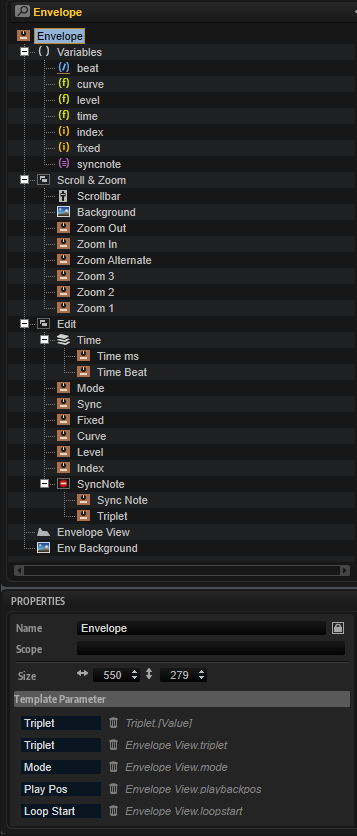
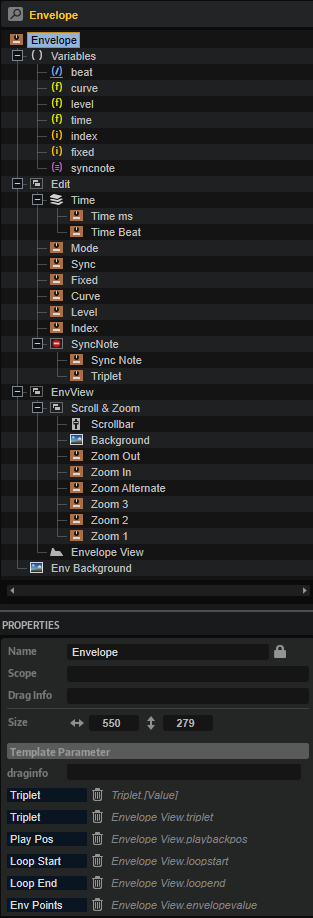
Add Animation Script and Envelope Shaper, revised Envelope to match H7

Changed region(s): [[0.0, 0.0, 1.0, 0.9952]]

diff --git a/src/HALion-Macro-Page/pages/Envelope-Shaper.md b/src/HALion-Macro-Page/pages/Envelope-Shaper.md
@@ -1,3 +1,140 @@
 / [HALion Developer Resource](../../HALion-Developer-Resource.md) / [HALion Macro Page](./HALion-Macro-Page.md) / [Templates](./Templates.md) /
 
 # Envelope Shaper
+
+---
+
+**On this page:**
+
+[[_TOC_]]
+
+---
+
+## Description
+
+The Envelope Shaper template allows you to edit HALion's multi-stage envelopes. The template contains controls for scrolling and zooming the envelope and for setting the envelope mode or the values of the selected node, for example. In addition, it offers tools for drawing shapes. The controls must be part of the template and they must use the [UI variables](#ui-variables) as defined in the template to connect with the [Envelope View Control](#envelope-view-control).
+
+>&#10069; The [Envelope View Control](#envelope-view-control) cannot be created manually in the GUI Tree. {{#include ./_Templates.md:special-template}}
+
+**To explore the functionality and connections:**
+
+1. Load the [Init Basic Controls.vstpreset](../vstpresets/Init%20Basic%20Controls.vstpreset) from the [Basic Controls](./Exploring-Templates.md#basic-controls) library.
+2. Open the **Macro Page Designer**, go to the **GUI Tree** and navigate to "Pages > Envelope Shaper Page". 
+3. Select "Envelope ShaperMode" and click **Edit Element** ![Edit Element](../images/EditElement.PNG) to examine the template.
+
+## Template Properties
+
+|Poperty|Description|
+|:-|:-|
+{{#include ./_Properties.md:name}}
+{{#include ./_Properties.md:position-size}}
+{{#include ./_Properties.md:attach}}
+{{#include ./_Properties.md:tooltip}}
+{{#include ./_Properties.md:template}}
+
+## Template Parameters
+
+|Parameter|Description|
+|:-|:-|
+|**Mode**|Connect this to the Mode parameter of the envelope.|
+|**Play Pos**|Connect this to the PlaybackPos parameter of the envelope.|
+|**Loop Start**|Connect this to the LoopStart parameter of the envelope.|
+|**Loop End**|Connect this to the LoopEnd parameter of the envelope.|
+|**Env Points**|Connect this to the Envelope Points parameter of the envelope.|
+|**Sync**|Connect this to the Sync parameter of the envelope.|
+|**Sustain**|Connect this to the SustainIndex parameter of the envelope.|
+
+## Components inside the Template
+
+![Envelope Shaper Template](../images/Envelope-Shaper-Template.PNG)
+
+### UI Variables
+
+These variables are needed to allow the communication between the Envelope View and other controls in the template.
+
+|Variable|Description|Type|Range|
+|:-|:-|:-|:-:|
+|**beat**|Time in beats.|rational|n.a.|
+|**curve**|Curvature of the selected node segment.|float|-10 - 10|
+|**level**|Level of the selected node.|float|0 - 100|
+|**time**|Time of the selected note.|float|0 - 30000|
+|**index**|Index of the selected node.|integer|0 - 128|
+|**tool**|The tool for drawing shapes.|integer|0 - 3|
+|**shapesave**|Used for saving shapes.|integer|0 - 1|
+|**shapeselect**|Used for selecting shapes.|integer|0 - 1|
+|**fixed**|Fixed mode of the envelope.|integer| 0, 1|
+|**Grid**|Specifies the note grid.|stringlist|1/64, 1/32, 1/16T, 1/16, 1/8T, 1/16D, 1/8, 1/4T, 1/8D, 1/4, 1/2T, 1/4D, 1/2, 1/1T, 1/2D, 4/4, 5/4, 6/4, 7/4, 8/4, 16/4, 32/4, 64/4|
+
+### Controls and Subtemplates
+
+|Item|Description|
+|:-|:-|
+|**Edit**|This [Group](./Group.md) contains controls that allow you to adjust the selected node and further options of the envelope.<ul><li>**Mode:** A menu template. Its Value is exported by ``@../{Mode}``. It should be connected to the Mode parameter of the corresponding envelope in the zone.</li><li>**Toolbar:** This [Group](./Group.md) contains switches for selecting the Edit, Erase, Draw, or Paint tool of the envelope.<ul><li>**Edit_1/Erase/Draw/Paint:** All switches use the exclusive mode and must be connected to ``@tool``.</li><li>**ToolBarBack:** A [Decor](./Decor-Resource.md) used as background.</li></ul></li><li>**Shape:** A [Group] of controls that allow to select and save the shapes for the Draw and Paint tools.<ul><li>**SaveShape:** A [Disable](./Disable.md) group for the save button. Its Value must be set to ``@tool``, so that saving is only possibe if the Edit tool is active.</li><ul><li>**SaveShape_1:** A [Switch](./Switch.md) for saving a shape. Its Value must be set to ``@shapesave``.</li></ul><li>**SelectShape:** A [Switch](./Switch.md) for opening the shape selector. Its Value must be set to ``@shapeselect``.</li><li>**Shape Preview:** A [Curve Editor](./Curve-Editor.md) for displaying the selected shape. Its Value must be set to ``@shape``.</li><li>**ToolBarBack_1:** A [Decor](./Decor-Resource.md) used as background.</li></ul><li>**Sync:** A switch template. Its Value is exported as ``Sync`` and should be connected to the Sync parameter of the corresponding envelope in the zone.</li><li>**SyncNote:** A [Disable](./Disable.md) view with a Sync Note template. The Value of the [Disable](./Disable.md) view is exported as ``Sync`` and should be connected to the Sync parameter of the corresponding envelope in the zone. If Sync is active, the [Disable](./Disable.md) view becomes active too and the contained template can be used to set Sync Note.</li><ul><li>**Sync Note:** A menu template. Its Value must be set to ``@Grid``, a stringlist [UI variable](#ui-variables) that defines the allowed note values. It is also connected to the corresponding property of the Envelope View, which uses the same [UI variable](#ui-variables).</li></ul><li>**Fixed:** A switch template. Its Value is connected to the corresponding property of the Envelope View by the [UI variable](#ui-variables) ``@fixed``.</li><li>**Node:** This [Group](./Group.md) contains controls for adjusting the selected node.</li><ul><li>**Index:** A valuebox template to select the index of the node to be edited. Its Value is connected to the corresponding property of the Envelope View by the [UI variable](#ui-variables) ``@index``.</li><li>**Level:** A valuebox template to adjust the level of the selected node. Its Value is connected to the corresponding property of the Envelope View by the [UI variable](#ui-variables) ``@level``.</li><li>**Time:** A [Stack](./Stack.md) with two templates to either set the time of a node in ms or fractions of a beat. The Value of the [Stack](./Stack.md) is exported as ``Sync`` and should be connected to the Sync parameter of the corresponding envelope in the zone.<ul><li>**Time ms/Time Beat:** The Value of the "Time ms" and the "Time Beat" templates must be set to the [UI variables](#ui-variables) ``@time`` and ``@beat`` respectively. This way, they are connected to the corresponding properties of the Envelope View, which use the same [UI variables](#ui-variables).</li></ul></li><li>**Curve:** A valuebox template to adjust the curvature of the selected node. Its Value is connected to the corresponding property of the Envelope View by the [UI variable](#ui-variables) ``@curve``.</li></ul><li>**EnableShaperMode:** A special invisible [Animation](./Animation.md) control which is only used to transfer the information about the selected envelope mode into the template. Its Value is exported using ``{Mode}``.</li></ul>|
+|**EnvView**|This [Group](./Group.md) contains a group with controls for scrolling and zooming the envelope and the Envelope View. See [Envelope View Control](#envelope-view-control) for further details.<ul><li>**Scroll & Zoom:** This [Group](./Group.md) contains controls that allow you to scroll and zoom the envelope.<ul><li>**Scrollbar:** A [Range Slider](./Range-Slider.md) to reach areas of the envelope that are not visible through the zoom. The Low Value of the [Range Slider](./Range-Slider.md) must be set to ``@ScrollMin`` and the High Value must be set to ``@ScrollMax``.</li><li>**Background:** A background bitmap for the scrollbar.</li><li>**Zoom Out:** A switch template that allows you to zoom out the envelope. Its Value must be set to ``@ZoomOut``.</li><li>**Zoom In:** A switch template that allows you to zoom in the envelope. Its Value must be set to ``@ZoomIn``.</li><li>**Zoom Alternate:** A switch template that toggles between the last zoom state or completely zoomed out. Its Value must be set to ``@StateA.``</li><li>**Zoom1:** A switch template to activate zoom state 1. Its Value must be set to ``@State1``.</li><li>**Zoom2:** A switch template to activate zoom state 2. Its Value must be set to ``@State2``.</li><li>**Zoom3:** A switch template to activate zoom state 3. Its Value must be set to ``@State3``.</li></ul></li><li>**Envelope View:** The graphical envelope editor. The properties EnvValue, Mode, Sync, Triplet, Loop Start, Loop End, Sustain and Play Pos are exported and thus are available as template parameters. They should be connected to the parameters of the corresponding envelope in the zone. The Value of the properties SyncNote, Fixed, Index, Level, Time, Beat and Curve is set to the corresponding [UI variable](#ui-variables). This way, each property is connected to one of the control templates mentioned above. See [Envelope View Control](#envelope-view-control) for further details.</li></ul>|
+|**Env Background**|The background bitmap for the envelope.|
+
+### Envelope View Control
+
+#### Properties
+
+In addition to standard properties like size, position, etc., the Envelope View provides further properties and colors to customize its appearance and behavior.
+
+|Poperty|Description|
+|:-|:-|
+{{#include ./_Properties.md:name}}
+{{#include ./_Properties.md:position-size}}
+{{#include ./_Properties.md:attach}}
+{{#include ./_Properties.md:tooltip}}
+|**Style**|<ul><li>**Bipolar:** Activate this for bipolar envelopes like pitch or pan.</li><li>**Scrollbar:** If this is active, the view can be scrolled and zoomed.</li><li>**Cross:** Shows crosslines when editing nodes.</li><li>**Grid:** Shows a time grid.</li><li>**Play Pos:** Shows the current playback position on the curve.</li><li>**Nodes:** Shows nodes.</li><li>**Add/Rem:** Allows adding and removing of nodes. Deactivate this option to provide an ADSR envelope with a fixed number of nodes, for example.</li><li>**Sel Node:** Allows you to select a node.</li><li>**Sustain:** Shows a sustain line. For this, an envelope Mode with sustain must be active.</li><li>**Loop:** Shows an overlay for the loop region. For this, the envelope Mode must be set to Loop.</li><li>**Free End:** Allows you to move the last node of a unipolar envelope away from the zero line.</li></ul>|
+|**Env Value**|Exported as ``Env Points``. See [Template Parameters](#template-parameters) above.|
+|**Mode**|Exported as ``Mode`` See [Template Parameters](#template-parameters) above.|
+|**Sync**|Exported as ``Sync`` See [Template Parameters](#template-parameters) above.|
+|**Triplet**|Not used in this template. See [Envelope](./Envelope.md) template for details of this property.|
+|**SyncNote**|Connected to the corresponding control template by the [UI variable](#ui-variables) ``@Grid``.|
+|**Fixed**|Connected to the corresponding control template by the [UI variable](#ui-variables) ``@fixed``.|
+|**Tool**|Connected to the corresponding controls Edit_1, Erase, Draw, and Paint by the [UI variable](#ui-variables) ``@tool``.|
+|**ShapeSave**|Connected to the corresponding control SaveShape_1 by the [UI variable](#ui-variables) ``@shapesave``.|
+|**ShapeSelect**|Connected to the corresponding control SelectShape by the [UI variable](#ui-variables) ``@shapeselect``|
+|**Shape**|Connected to the corresponding control Shape Preview by the [UI variable](#ui-variables) ``@shape``.|
+|**Index**|Connected to the corresponding control template by the [UI variable](#ui-variables) ``@index``.|
+|**Level**|Connected to the corresponding control template by the [UI variable](#ui-variables) ``@level``.|
+|**Time**|Connected to the corresponding control template by the [UI variable](#ui-variables) ``@time``.|
+|**Beat**|Connected to the corresponding control template by the [UI variable](#ui-variables) ``@beat``.|
+|**Curve**|Connected to the corresponding control template by the [UI variable](#ui-variables) ``@curve``.|
+|**Loop Start**|Exported as ``Loop Start``. See [Template Parameters](#template-parameters) above.|
+|**Loop End**|Exported as ``Loop End``. See [Template Parameters](#template-parameters) above.|
+|**Sustain**|Exported as ``Sustain``. See [Template Parameters](#template-parameters) above.|
+**Play Pos**|Exported as ``Play Pos``. See [Template Parameters](#template-parameters) above.|
+|**Min X**|Defines the minimum value of the horizontal zoom.|
+|**Max X**|Defines the maximum value of the horizontal zoom.|
+|**Min Y**|Defines the minimum value of the vertical zoom.|
+|**Max Y**|Defines the maximum value of the vertical zoom.|
+
+#### Colors
+
+>&#10069; Some colors are only available if the corresponding Style options are active.
+
+|Poperty|Description|
+|:-|:-|
+|**Line**|Line color between the nodes.|
+|**Fill**|Fill color of the nodes.|
+|**FillSelected**|Fill color of the selected nodes.|
+|**FrameFocus**|Frame color of the focussed node.|
+|**Frame**|Frame color of the nodes.|
+|**Hover**|Hover frame color of the nodes.|
+|**Sustain**|Color of the Sustain node and line.|
+|**Synced**|Dot color of nodes that are aligned to the sync grid.|
+|**Crosshair**|Node edit crosshair color.|
+|**Playback**|Color of the playback position indicator.|
+|**Border**|Overall border color.|
+|**Grid V**|Vertical grid color.|
+|**Grid V2**|Vertical fine grid color.|
+|**Grid H**|Horizontal grid color.|
+|**Grid H2**|Horizontal fine grid color.|
+|**Font**|Timeline font color.|
+|**Selector**|Selection area fill color.|
+|**SelFrame**|Selection area frame color.|
+|**Loop**|Loop area fill color.|
+|**LoopFrame**|Loop area frame color.|
+|**Zoom**|Zoom area fill color.|
+|**ZoomFrame**|Zoom area frame color.|

diff --git a/src/HALion-Macro-Page/pages/Envelope.md b/src/HALion-Macro-Page/pages/Envelope.md
@@ -50,20 +50,20 @@ These variables are needed to allow the communication between the Envelope View 
 
 |Variable|Description|Type|Range|
 |:-|:-|:-|:-:|
-|**index**|Index of the selected node.|integer|0 - 128|
+|**beat**|Time in beats.|rational|n.a.|
+|**curve**|Curvature of the selected node segment.|float|-10 - 10|
 |**level**|Level of the selected node.|float|0 - 100|
 |**time**|Time of the selected note.|float|0 - 30000|
-|**curve**|Curvature of the selected node segment.|float|-10 - 10|
-|**beat**|Time in beats.|rational|n.a.|
+|**index**|Index of the selected node.|integer|0 - 128|
+|**fixed**|Fixed mode of the envelope.|integer| 0, 1|
 |**syncnote**|Specifies the note grid.|stringlist|1/1, 1/2, 1/4, 1/8, 1/16, 1/32, 1/64, 1/128, 1/256|
 
 ### Controls and Subtemplates
 
 |Item|Description|
 |:-|:-|
-|**Scroll & Zoom**|This [Group](./Group.md) contains controls that allow you to scroll and zoom the envelope.<ul><li>**Scrollbar:** A [Range Slider](./Range-Slider.md) to reach areas of the envelope that are not visible through the zoom. The Low Value of the [Range Slider](./Range-Slider.md) must be set to ``@ScrollMin`` and the High Value must be set to ``@ScrollMax``.</li><li>**Background:** A background bitmap for the scrollbar.</li><li>**Zoom Out:** A switch template that allows you to zoom out the envelope. Its Value must be set to ``@ZoomOut``.</li><li>**Zoom In:** A switch template that allows you to zoom in the envelope. Its Value must be set to ``@ZoomIn``.</li><li>**Zoom Alternate:** A switch template that toggles between the last zoom state or completely zoomed out. Its Value must be set to ``@StateA.``</li><li>**Zoom1:** A switch template to activate zoom state 1. Its Value must be set to ``@State1``.</li><li>**Zoom2:** A switch template to activate zoom state 2. Its Value must be set to ``@State2``.</li><li>**Zoom3:** A switch template to activate zoom state 3. Its Value must be set to ``@State3``.</li></ul>|
-|**Edit**|This [Group](./Group.md) contains controls that allow you to adjust the selected node and further options of the envelope.<ul><li>**Time:** A [Stack](./Stack.md) with two templates to either set the time of a node in ms or fractions of a beat. The Value of the [Stack](./Stack.md) is exported as ``Sync`` and should be connected to the Sync parameter of the corresponding envelope in the zone. The Value of the "Time ms" and the "Time Beat" templates must be set to the [UI variables](#ui-variables) ``@time`` and ``@beat`` respectively. This way, they are connected to the corresponding properties of the Envelope View, which use the same [UI variables](#ui-variables).</li><li>**Mode:** A menu template. Its Value is exported as ``Mode`` and should be connected to the Mode parameter of the corresponding envelope in the zone.</li><li>**Sync:** A switch template. Its Value is exported as ``Sync`` and should be connected to the Sync parameter of the corresponding envelope in the zone.</li><li>**Fixed:** A switch template. Its Value is connected to the corresponding property of the Envelope View by the [UI variable](#ui-variables) ``@fixed``.</li><li>**Curve:** A valuebox template to adjust the curvature of the selected node. Its Value is connected to the corresponding property of the Envelope View by the [UI variable](#ui-variables) ``@curve``.</li><li>**Level:** A valuebox template to adjust the level of the selected node. Its Value is connected to the corresponding property of the Envelope View by the [UI variable](#ui-variables) ``@level``.</li><li>**Index:** A valuebox template to select the index of the node to be edited. Its Value is connected to the corresponding property of the Envelope View by the [UI variable](#ui-variables) ``@index``.</li><li>**SyncNote:** A [Disable](./Disable.md) view with two templates: Sync Note and Triplet. The Value of the [Disable](./Disable.md) view is exported as ``Sync`` and should be connected to the Sync parameter of the corresponding envelope in the zone. If Sync is active, the [Disable](./Disable.md) view becomes active too and the contained templates can be used to set the Sync Note and Triplet parameters of the envelope.</li><ul><li>**Sync Note:** A menu template. Its Value must be set to ``@syncnote``, a stringlist [UI variable](#ui-variables) that defines the allowed note values. It is also connected to the corresponding property of the Envelope View, which uses the same [UI variable](#ui-variables).</li><li>**Triplet:** A switch template. Its Value is exported as ``Triplet`` and should be connected to the Triplet parameter of the corresponding envelope in the zone.</li></ul></ul>|
-|**Envelope View**|The graphical envelope editor. The properties EnvValue, Mode, Sync, Triplet, Loop Start, Loop End, Sustain and Play Pos are exported and thus are available as template parameters. They should be connected to the parameters of the corresponding envelope in the zone. The Value of the properties SyncNote, Fixed, Index, Level, Time, Beat and Curve is set to the corresponding [UI variable](#ui-variables). This way, each property is connected to one of the control templates mentioned above.|
+|**Edit**|This [Group](./Group.md) contains controls that allow you to draw shapes, adjust the selected node and further options of the envelope.<ul><li>**Time:** A [Stack](./Stack.md) with two templates to either set the time of a node in ms or fractions of a beat. The Value of the [Stack](./Stack.md) is exported as ``Sync`` and should be connected to the Sync parameter of the corresponding envelope in the zone.<ul><li>**Time ms/Time Beat:** The Value of the "Time ms" and the "Time Beat" templates must be set to the [UI variables](#ui-variables) ``@time`` and ``@beat`` respectively. This way, they are connected to the corresponding properties of the Envelope View, which use the same [UI variables](#ui-variables).</li></ul></li><li>**Mode:** A menu template. Its Value is exported as ``Mode`` and should be connected to the Mode parameter of the corresponding envelope in the zone.</li><li>**Sync:** A switch template. Its Value is exported as ``Sync`` and should be connected to the Sync parameter of the corresponding envelope in the zone.</li><li>**Fixed:** A switch template. Its Value is connected to the corresponding property of the Envelope View by the [UI variable](#ui-variables) ``@fixed``.</li><li>**Curve:** A valuebox template to adjust the curvature of the selected node. Its Value is connected to the corresponding property of the Envelope View by the [UI variable](#ui-variables) ``@curve``.</li><li>**Level:** A valuebox template to adjust the level of the selected node. Its Value is connected to the corresponding property of the Envelope View by the [UI variable](#ui-variables) ``@level``.</li><li>**Index:** A valuebox template to select the index of the node to be edited. Its Value is connected to the corresponding property of the Envelope View by the [UI variable](#ui-variables) ``@index``.</li><li>**SyncNote:** A [Disable](./Disable.md) view with two templates: Sync Note and Triplet. The Value of the [Disable](./Disable.md) view is exported as ``Sync`` and should be connected to the Sync parameter of the corresponding envelope in the zone. If Sync is active, the [Disable](./Disable.md) view becomes active too and the contained templates can be used to set the Sync Note and Triplet parameters of the envelope.</li><ul><li>**Sync Note:** A menu template. Its Value must be set to ``@syncnote``, a stringlist [UI variable](#ui-variables) that defines the allowed note values. It is also connected to the corresponding property of the Envelope View, which uses the same [UI variable](#ui-variables).</li><li>**Triplet:** A switch template. Its Value is exported as ``Triplet`` and should be connected to the Triplet parameter of the corresponding envelope in the zone.</li></ul></ul>|
+|**EnvView**|This [Group](./Group.md) contains a group with controls for scrolling and zooming the envelope and the Envelope View.<ul><li>**Scroll & Zoom:** This [Group](./Group.md) contains controls that allow you to scroll and zoom the envelope.<ul><li>**Scrollbar:** A [Range Slider](./Range-Slider.md) to reach areas of the envelope that are not visible through the zoom. The Low Value of the [Range Slider](./Range-Slider.md) must be set to ``@ScrollMin`` and the High Value must be set to ``@ScrollMax``.</li><li>**Background:** A background bitmap for the scrollbar.</li><li>**Zoom Out:** A switch template that allows you to zoom out the envelope. Its Value must be set to ``@ZoomOut``.</li><li>**Zoom In:** A switch template that allows you to zoom in the envelope. Its Value must be set to ``@ZoomIn``.</li><li>**Zoom Alternate:** A switch template that toggles between the last zoom state or completely zoomed out. Its Value must be set to ``@StateA.``</li><li>**Zoom1:** A switch template to activate zoom state 1. Its Value must be set to ``@State1``.</li><li>**Zoom2:** A switch template to activate zoom state 2. Its Value must be set to ``@State2``.</li><li>**Zoom3:** A switch template to activate zoom state 3. Its Value must be set to ``@State3``.</li></ul></li><li>**Envelope View:** The graphical envelope editor. The properties EnvValue, Mode, Sync, Triplet, Loop Start, Loop End, Sustain and Play Pos are exported and thus are available as template parameters. They should be connected to the parameters of the corresponding envelope in the zone. The Value of the properties SyncNote, Fixed, Index, Level, Time, Beat and Curve is set to the corresponding [UI variable](#ui-variables). This way, each property is connected to one of the control templates mentioned above. See [Envelope View Control](#envelope-view-control) for further details.</li></ul>|
 |**Env Background**|The background bitmap for the envelope.|
 
 ### Envelope View Control
@@ -85,6 +85,10 @@ In addition to standard properties like size, position, etc., the Envelope View 
 |**Triplet**|Exported as ``Triplet`` See [Template Parameters](#template-parameters) above.|
 |**SyncNote**|Connected to the corresponding control template by the [UI variable](#ui-variables) ``@syncnote``.|
 |**Fixed**|Connected to the corresponding control template by the [UI variable](#ui-variables) ``@fixed``.|
+|**Tool**|Not used in this template. See [Envelope Shaper](./Envelope-Shaper.md) template for details of this property.|
+|**ShapeSave**|Not used in this template. See [Envelope Shaper](./Envelope-Shaper.md) template for details of this property.|
+|**ShapeSelect**|Not used in this template. See [Envelope Shaper](./Envelope-Shaper.md) template for details of this property.|
+|**Shape**|Not used in this template. See [Envelope Shaper](./Envelope-Shaper.md) template for details of this property.|
 |**Index**|Connected to the corresponding control template by the [UI variable](#ui-variables) ``@index``.|
 |**Level**|Connected to the corresponding control template by the [UI variable](#ui-variables) ``@level``.|
 |**Time**|Connected to the corresponding control template by the [UI variable](#ui-variables) ``@time``.|
@@ -93,7 +97,7 @@ In addition to standard properties like size, position, etc., the Envelope View 
 |**Loop Start**|Exported as ``Loop Start``. See [Template Parameters](#template-parameters) above.|
 |**Loop End**|Exported as ``Loop End``. See [Template Parameters](#template-parameters) above.|
 |**Sustain**|Exported as ``Sustain``. See [Template Parameters](#template-parameters) above.|
-**Play Pos**|Exported as ``Play Pos``. See [Template Parameters](#template-parameters) above.|
+|**Play Pos**|Exported as ``Play Pos``. See [Template Parameters](#template-parameters) above.|
 |**Min X**|Defines the minimum value of the horizontal zoom.|
 |**Max X**|Defines the maximum value of the horizontal zoom.|
 |**Min Y**|Defines the minimum value of the vertical zoom.|
@@ -101,7 +105,7 @@ In addition to standard properties like size, position, etc., the Envelope View 
 
 #### Colors
 
->&#10069; Some colors are only available if the corresponding Style options are active.
+>&#10069; Some colors are available only if the corresponding Style options are enabled.
 
 |Poperty|Description|
 |:-|:-|
@@ -114,16 +118,17 @@ In addition to standard properties like size, position, etc., the Envelope View 
 |**Sustain**|Color of the Sustain node and line.|
 |**Synced**|Dot color of nodes that are aligned to the sync grid.|
 |**Crosshair**|Node edit crosshair color.|
-|**Playback**|Color of the playback position indicator.|
+|**Play Pos**|Color of the playback position indicator.|
 |**Border**|Overall border color.|
 |**Grid V**|Vertical grid color.|
 |**Grid V2**|Vertical fine grid color.|
+|**Grid V3**|Vertical fine grid color.|
 |**Grid H**|Horizontal grid color.|
 |**Grid H2**|Horizontal fine grid color.|
 |**Font**|Timeline font color.|
 |**Selector**|Selection area fill color.|
 |**SelFrame**|Selection area frame color.|
-|**Loop**|Loop area fill color.|
-|**LoopFrame**|Loop area frame color.|
 |**Zoom**|Zoom area fill color.|
 |**ZoomFrame**|Zoom area frame color.|
+|**Loop**|Loop area fill color.|
+|**LoopFrame**|Loop area frame color.|

diff --git a/src/HALion-Macro-Page/pages/Animation-Script.md b/src/HALion-Macro-Page/pages/Animation-Script.md
@@ -1,3 +1,77 @@
 / [HALion Developer Resource](../../HALion-Developer-Resource.md) / [HALion Macro Page](./HALion-Macro-Page.md) / [Templates](./Templates.md) /
 
 # Animation Script
+
+---
+
+**On this page:**
+
+[[_TOC_]]
+
+---
+
+## Description
+
+The Animation Script template can be added to a macro page to run timer-controlled animations. These can be turned on and off by any parameter and the integrated script can be customized to set animation properties, such as the number of frames and the duration of a frame. There are two templates included in the [Basic Controls](./Exploring-Templates.md#basic-controls) library, the Animation Script template providing only the UI script and the Animation Script Example template, which includes additional components such as a play button, variables, and an example animation to show how the UI script can be connected.
+
+![Animation-Script-Template](../images/Animation-Script-Template.png)
+
+**To explore the functionality and connections:**
+
+1. Load the [Init Basic Controls.vstpreset](../vstpresets/Init%20Basic%20Controls.vstpreset) from the [Basic Controls](./Exploring-Templates.md#basic-controls) library.
+2. Open the **Macro Page Designer**, go to the **GUI Tree** and navigate to "Pages > Animation Page". 
+3. Select "Animation Script Example" and click **Edit Element** ![Edit Element](../images/EditElement.PNG) to examine the template.
+
+## Template Properties
+
+|Poperty|Description|
+|:-|:-|
+{{#include ./_Properties.md:name}}
+{{#include ./_Properties.md:position-size}}
+{{#include ./_Properties.md:attach}}
+{{#include ./_Properties.md:tooltip}}
+{{#include ./_Properties.md:template}}
+
+## Components inside the Template
+
+![Animation Script Example Template](../images/Animation-Script-Example-Template.png)
+
+### UI Variables
+
+These variables are needed to allow the communication between the [Animation](./Animation.md) control, the Animation Script Template and the PLay button.
+
+|Variable|Description|Type|Range|
+|:-|:-|:-|:-|
+|**Frames**|An integer variable to connect the Out parameter of the Animation Script Template with the Value of the [Animation](./Animation.md) control.|
+|**On**|An integer variable to connect the On parameter of the Animation Script Template with the Play button.|
+
+### Controls and Subtemplates
+
+|Item|Description|
+|:-|:-|
+|**Animation**|A SVG of a rotating star as an example animation. It is connected to the Animation Script Template by ``@Frames``.|
+|**Animation Script Template**|The template view that contains the UI script for controlling the animation. The template provides the following parameters:<ul><li>**On:** Starts and stops the animation. Connected  to the Play button by ``@On``.</li><li>**Out:** The output of the script for controlling the animation. It is connected to the [Animation](./Animation.md) control by ``@Frames``.</li><li>**Frames:** The number of frames to be displayed (1 to 1000). The number is best set to the actual number of frames in the referenced animation. You can use a different number, e.g., use 50 for an animation with 100 frames, if you want to display only every second frame of the animation.</li><li>**Frame Duration:** Here you can specify the duration for each frame to be displayed. The duration is set in milliseconds (20 to 10.000).</li></ul>|
+|**Play**|A [Switch](./Switch.md) control to start and stop the animation. It is connected to the Animation Script Template by ``@On``.|
+
+### UI Script
+
+```lua
+function animate()
+ while on do
+  if out + inc <= 1  then
+    out = out + inc
+  else
+	out = 0
+  end
+  wait(frameDuration)
+ end
+ 
+ out = 0
+end
+
+inc = 0.1
+defineParameter{name = "on", default = false, onChanged = animate}
+defineParameter{name = "out", default = 0, min = 0, max = 1}
+defineParameter{name = "frames", default = 10, min = 1, max = 1000, type = "integer", onChanged = function() inc = 1 / frames end}
+defineParameter{name = "frameDuration", default = 50, min = 20, max = 10000, type = "integer"}
+```

diff --git a/src/HALion-Macro-Page/pages/Curve-Editor.md b/src/HALion-Macro-Page/pages/Curve-Editor.md
@@ -72,7 +72,7 @@ The look and feel of the Curve Editor control can be configured with the followi
 {{#include ./_Properties.md:position-size}}
 {{#include ./_Properties.md:attach}}
 {{#include ./_Properties.md:tooltip}}
-|**Style**|<ul><li>**Bipolar:** Activate this for bipolar curves like pitch or pan.</li><li>**Cross:** Shows cross lines when editing a node.</li><li>**Grid:** Shows a grid behind the curve.</li><li>**Play Pos:** Shows the position of the current value on the curve.</li><li>**Nodes:** Shows the nodes.</li><li>**Add/Rem:** Allows you to add and remove nodes, otherwise a fixed number of nodes is used.</li><li>**Sel Node:** Allows to select a node.</li><li>**Scale X:** Shows a scale for the x-axis.</li><li>**Scale Y:** Shows a scale for the y-axis.</li></ul>|
+|**Style**|<ul><li>**Bipolar:** Activate this for bipolar curves like pitch or pan.</li><li>**Cross:** Shows cross lines when editing a node.</li><li>**Grid:** Shows a grid behind the curve.</li><li>**Play Pos:** Shows the position of the current value on the curve.</li><li>**Nodes:** Shows the nodes.</li><li>**Add/Rem:** Allows you to add and remove nodes, otherwise a fixed number of nodes is used.</li><li>**Sel Node:** Allows to select a node.</li><li>**No Margins:** Activate this if you want to draw the curve using the full rectangle. ScaleX and ScaleY are clipped if No Margins is enabled. Therefore, you should deactivate them.</li><li>**Scale X:** Shows a scale for the x-axis.</li><li>**Scale Y:** Shows a scale for the y-axis.</li></ul>|
 |**FuncData**|Export this property to the instance level of the template and connect the corresponding template parameter to the FuncData parameter of the Velocity Curve MIDI module, for example.|
 |**Grid**|<ul><li>**MinX:** Defines the minimum value of the horizontal grid.</li><li>**MaxX:** Defines the maximum value of the horizontal grid.</li><li>**MinY:** Defines the minimum value of the vertical grid.</li><li>**MaxY:** Defines the maximum value of the vertical grid.</li></ul>|
 |**Selected Node**|<ul><li>**Index:** The index of the selected node. Connected to the valuebox template Index by the [UI variable](#ui-variables) ``@index``.</li><li>**X:** The x-value of the selected node. Connected to the valuebox template ValX by the [UI variable](#ui-variables) ``@valX``.</li><li>**Y:** The y-value of the selected node. Connected to the valuebox template ValY by the [UI variable](#ui-variables) ``@valY``.</li><li>**Curve:** The curvature of the selected node. Connected to the valuebox template Curve by the [UI variable](#ui-variables) ``@curve``.</li></ul>|
